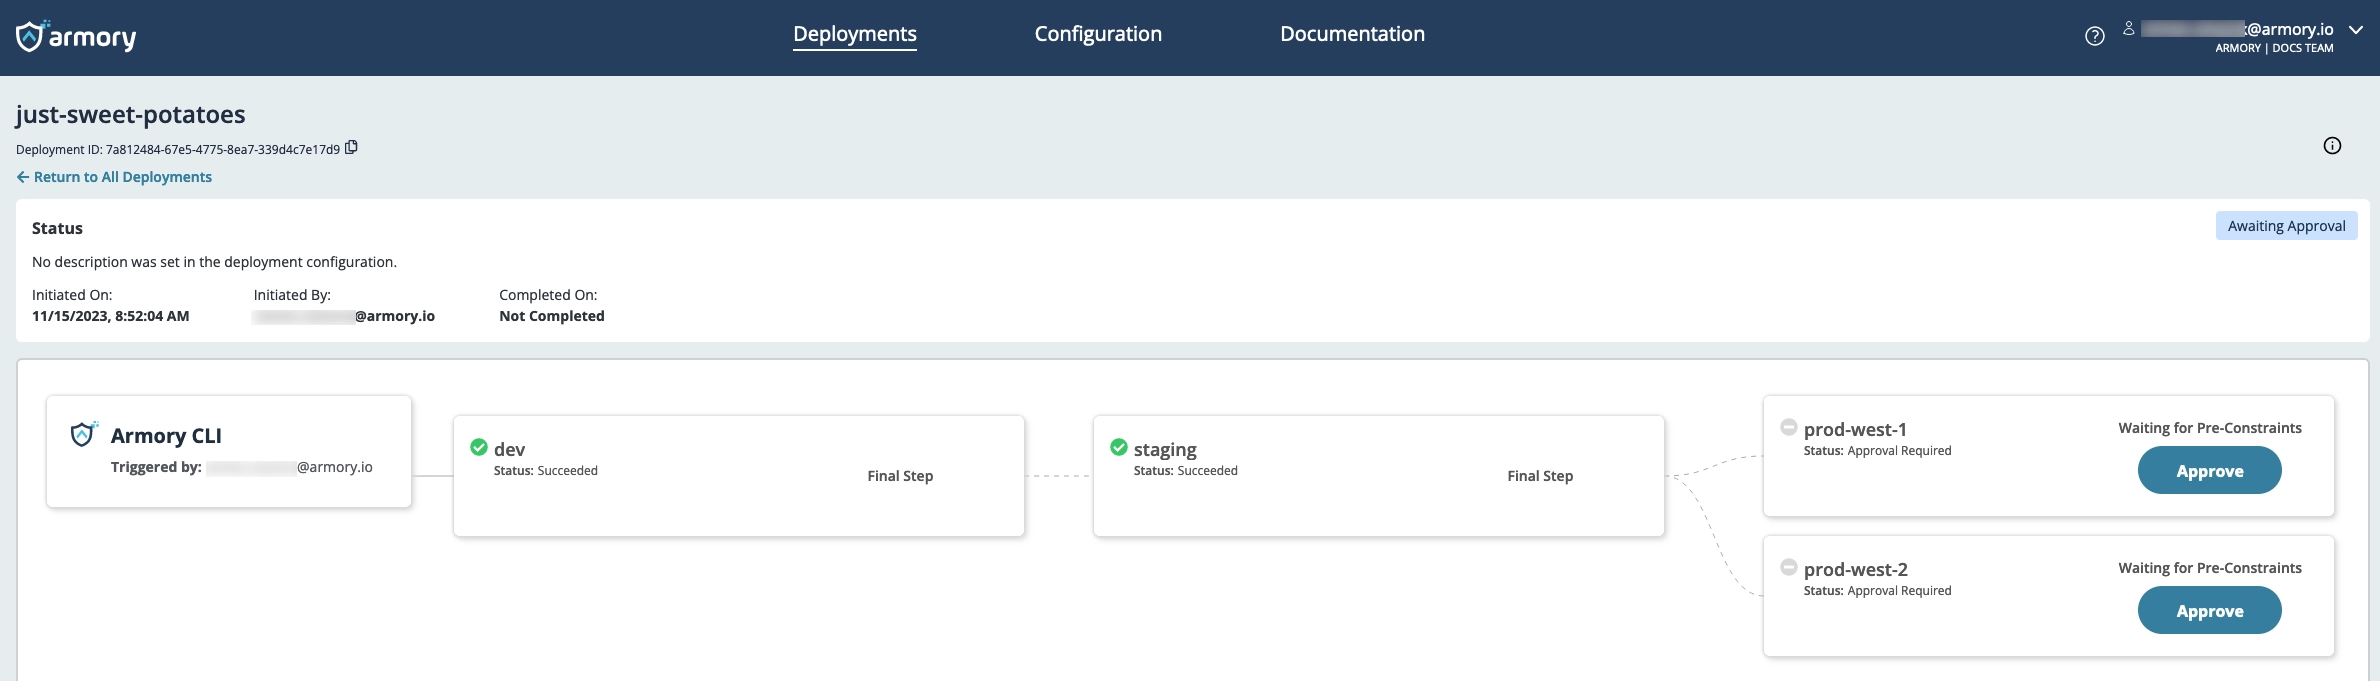
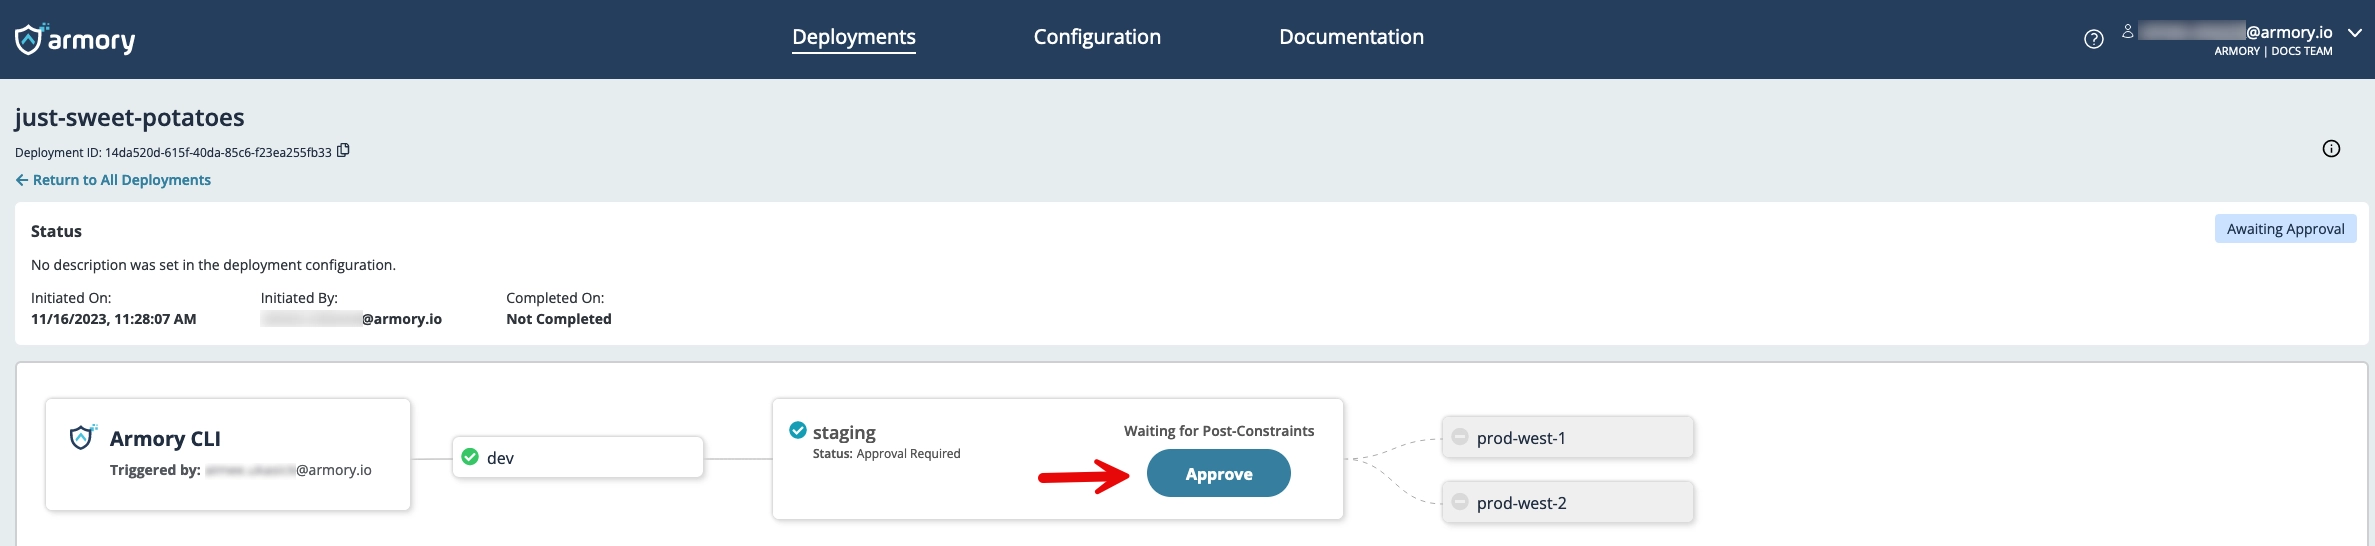
change quickstart manual approval to afterDeployment staging node

diff --git a/content/en/get-started/lambda/index.md b/content/en/get-started/lambda/index.md
@@ -279,12 +279,12 @@ CD-as-a-Service has four kinds of constraints that you can use to control your d
 
 - Manual Approvals
 - Timed Pauses
-- [External Automation (Webhooks)]({{< ref "webhooks/overview.md" >}})
+- [External Automation (Webhooks)]({{< ref "webhooks/overview.md" >}}) to run integration tests and security audits or send notifications
 - [Automated Canary Analysis]({{< ref "deployment/strategies/canary" >}})
 
-You can use these constraints between environments and within environments. During your next deployment, you need to issue a manual approval before deploying to to the prod targets. Add a `beforeDeployment` constraint for a manual judgment:
+You can use these constraints between environments and within environments. During your next deployment, you need to issue a manual approval before deploying to to the prod targets. Add a `beforeDeployment` constraint for a manual judgment to your `staging` target:
 
-{{< highlight yaml "linenos=table,hl_lines=23-25 34-36" >}}
+{{< highlight yaml "linenos=table,hl_lines=15-17" >}}
 targets:
   dev:
     account: <account-name>
@@ -299,6 +299,9 @@ targets:
     constraints:
       dependsOn:
         - dev
+      afterDeployment:
+        - pause:
+            untilApproved: true
   prod-west-1:
     account:  <account-name>
     deployAsIamRole: <armory-role-arn>
@@ -307,9 +310,6 @@ targets:
     constraints:
       dependsOn:
         - staging
-      beforeDeployment:
-        - pause:
-            untilApproved: true
   prod-west-2:
     account:  <account-name>
     deployAsIamRole: <armory-role-arn>
@@ -318,9 +318,6 @@ targets:
     constraints:
       dependsOn:
         - staging
-      beforeDeployment:
-        - pause:
-            untilApproved: true
 {{< /highlight>}}
 
 
@@ -332,7 +329,7 @@ armory deploy start -f deploy.yaml
 
 Use the link provided by the CLI to observe your deployment's progression in the [CD-as-a-Service Console](https://console.cloud.armory.io/deployments).
 
-In this second deployment, you see that CD-as-a-Service paused deployment to prod. Click the **Approve** button in each prod node to continue deployment.
+In this second deployment, you see that CD-as-a-Service paused deployment to prod. Click the **Approve** button in the `staging` node to continue deployment.
 
 {{< figure src="manual-constraint.webp"  width="80%" height="80%" >}}
 
